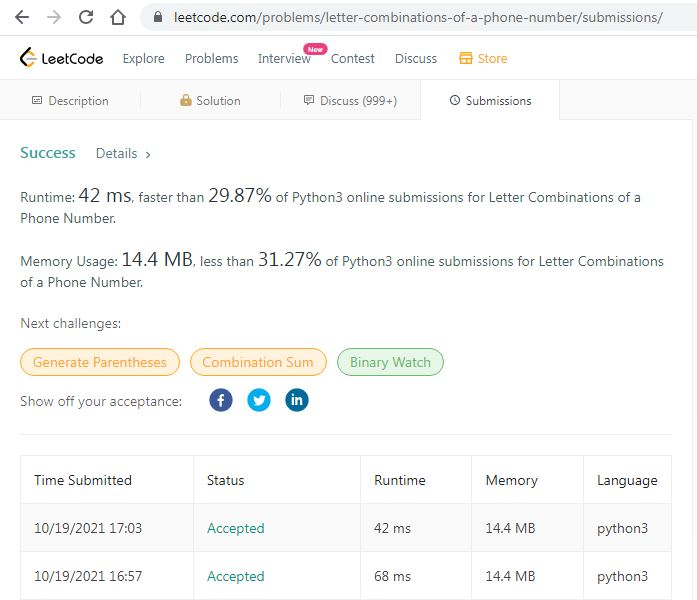
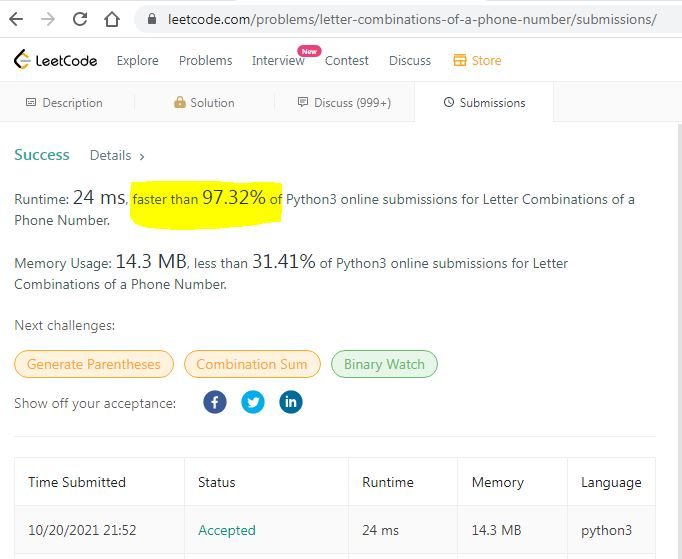
The solution to the "Letter combinations of a phone number" problem has been improved

diff --git a/0017_letter_combinations_of_a_phone_number.py b/0017_letter_combinations_of_a_phone_number.py
@@ -1,5 +1,32 @@
 class Solution:
-    def letterCombinations(self, digits: str):  # -> List[str]:
+    def letterCombinations(self, digits: str):
+        def get_symbols(phonepad, digit):
+            x = 0
+            length = len(phonepad[digit])
+            while x < length:
+                yield phonepad[digit][x]
+                x += 1
+
+        def recurse_digit(phonepad, digs, sub_result, result):
+            if len(digs) == 1:
+                for letter in get_symbols(phonepad, digs[0]):
+                    result.append(sub_result + letter)
+                return
+            for letter in get_symbols(phonepad, digs[0]):
+                recurse_digit(phonepad, digs[1:], sub_result+letter, result)
+        if len(digits) == 0:
+            return []
+        result = list()
+        phonepad = {"2": "abc", "3": "def", "4": "ghi", "5": "jkl",
+                    "6": "mno", "7": "pqrs", "8": "tuv", "9": "wxyz"}
+        if len(digits) == 1:
+            return [letter for letter in get_symbols(phonepad, digits[0])]
+            
+        for letter in get_symbols(phonepad, digits[0]):
+            recurse_digit(phonepad, digits[1:], letter, result)
+        return result
+
+    def letterCombinations_direct(self, digits: str):  # -> List[str]:
         '''17. Letter Combinations of a Phone Number
         Medium
 
@@ -55,8 +82,8 @@ class Solution:
 
 
 solution = Solution()
-assert solution.letterCombinations(
-    "23") == ["ad", "ae", "af", "bd", "be", "bf", "cd", "ce", "cf"]
+# assert solution.letterCombinations(
+#     "23") == ["ad", "ae", "af", "bd", "be", "bf", "cd", "ce", "cf"]
 assert solution.letterCombinations("") == []
 assert solution.letterCombinations("2") == ["a", "b", "c"]
 assert solution.letterCombinations("7") == ["p", "q", "r", "s"]
